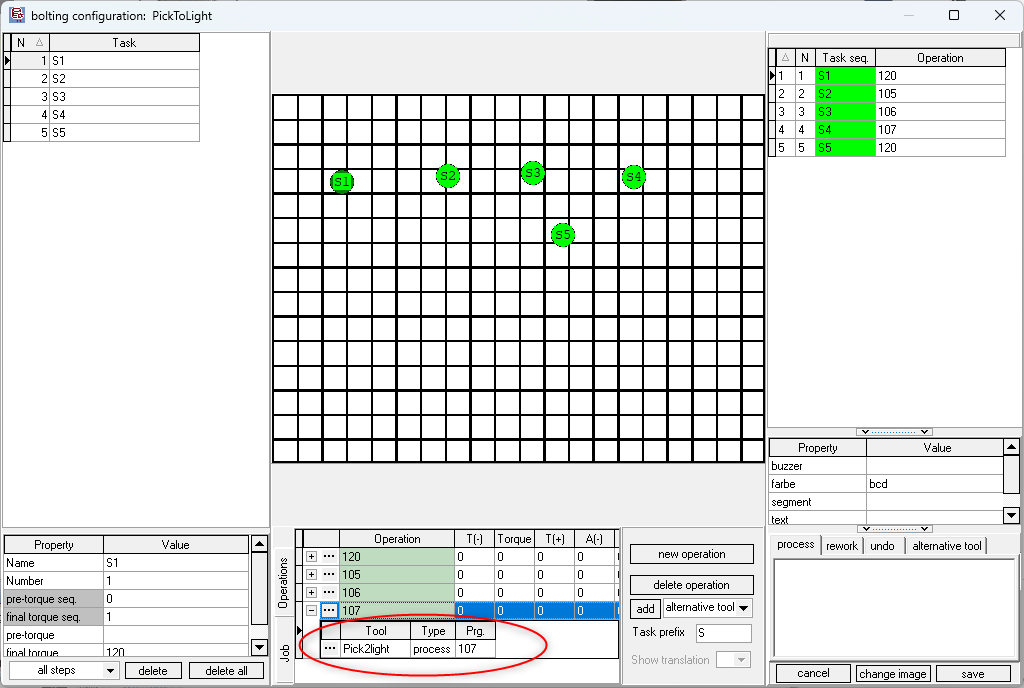
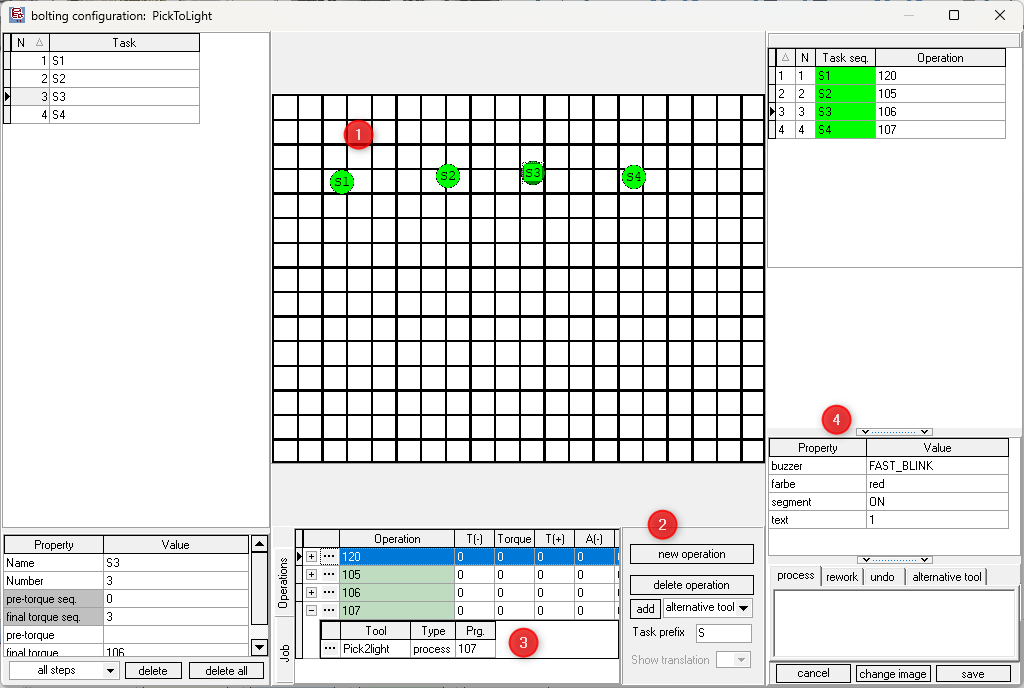
Modified documentation for pick2light and GUI-Input tools

diff --git a/docs/tools/misc/aioi-pick2light.md b/docs/tools/misc/aioi-pick2light.md
@@ -9,13 +9,13 @@ tags:
 
 # AIOI Pick2Light tool
 
-The AIOI Pick2Light tools are interactive communication devices associated with each shelf location, guiding the operator by clearly indicating the exact position and, if necessary, the quantity of units to be picked or placed. The hardware comes in multiple models, each featuring colored LEDs integrated into a single confirmation button. This design allows for various operational configurations, offering more flexible ways to manage tasks. For example, it enables multiple workers to operate simultaneously in the same area, with each worker assigned a unique color. It also supports preparing multiple orders at once by a single operator, with different colors assigned to each order. (links? to aioi H/W setup )
+The AIOI Pick2Light system is an interactive tool that helps operators by clearly indicating the specific shelf location and, when needed, the quantity of items to be picked or placed. Available in several models, each unit features colored LEDs and a single confirmation button, offering versatile configurations to efficiently manage tasks. <!--links? to aioi H/W setup-->
 
 ## Installation and configuration
 
 ### OGS project configuration
 
-OGS has an interface to add additional tool drivers by adding Windows-DLLs to the `[TOOL_DLL]` section in `station.ini`. To simplify the creation of custom tool drivers, OGS offers the heLuaTool.dll, which enables the development of tool drivers using pure LUA. With this functionality, the AIOI Pick2Light tool is seamlessly integrated into OGS, see [Lua custom tools](../../v3/lua/customtools.md).
+OGS has an interface to add additional tool drivers by adding Windows-DLLs to the `[TOOL_DLL]` section in `station.ini`. To simplify the creation of custom tool drivers, OGS offers the heLuaTool.dll, which enables the development of tool drivers using pure LUA. With this functionality, the AIOI Pick2Light tool is seamlessly integrated into OGS, see [Lua custom tools](../../v3/lua/customtools.md) for more info.
 
 ### Tool registration and configuration
 
@@ -39,16 +39,16 @@ The typical parameters are:
 
 - `DRIVER`: The name of the windows dll that implements tool drivers.
 - `TYPE`: The name of the tool driver specified in your custom LUA tool driver.
-- `IPADDR`: Specify the IP address used for communication with the controller.
-- `IPPORT`: Specify the port number used for communication with the controller.
+- `IPADDR`: Specify the IP address used for communication with the controller. 
+- `IPPORT`: Specify the port number used for communication with the controller (the default port number is 5003).
 
 
 ## Editor configuration
 
 ### Configuring the tool
 
-In the Tools section of the Editor, add a new tool named Pick2light and assign it to the appropriate channel (ensure the channel number matches the one specified in the `station.ini` file). Provide a name for the tool and, under the Task & Action properties section, define the following properties:
-- `text`: The text to be displayed on the display
+In the Tools section of the Editor, create a new tool with a name of your choice (e.g., Pick2light) and assign it to the appropriate channel (ensure the channel number matches the one specified in the `station.ini` file).Next, under the Task & Action properties section, define the following properties:
+- `text`: The text to be shown on the tool's display
 - `farbe`: The color of the confirm button
 - `buzzer`: The buzzer sound setting, which can be set to 'OFF', 'ON', 'BLINK', or 'FAST_BLINK'
 - `segment`: The property of the display segment
@@ -63,16 +63,47 @@ Assign a tool number to each property, as shown in the reference image below. Yo
 
 To set up a job and task with the appropriate operations and tools, follow the steps below:
 
-1. In the Jobs catalog, create a new job and then add a new task. In the operation section below, add an operation by selecting "new operation."
-2. To assign an existing operation along with its tool, click the three dots next to the operation and select from the window that opens.
-3. To add a new operation, provide a name for the operation and assign a tool by clicking the three dots next to the tool, which will open the tools window. From there, select the "Pick2Light" tool. It is **crucial** to set the program (Prg) value to the Pick2Light tool address (also known as the bin number). 
-4. Afterward, assign the newly created operation to the task, as shown in the image below. 
-5. Finally, ensure that the correct values are assigned to the properties for each task. The values for each of the properties are discussed in the next section.
+1. In the Jobs catalog of the Editor create a new job and then add a new task. 
+2. In the operation section below, add an operation by selecting "new operation."
+    -  To assign an existing operation along with its tool, click the three dots next to the operation and select from the window that opens.
+    -  To add a new operation, provide a name for the operation and assign a tool by clicking the three dots next to the tool, which will open the tools window. From there, select the "Pick2Light" tool. 
+3. It is **crucial** to set the program (Prg) value to the Pick2Light tool address (also known as the bin number, which is explained in detail in the following section). Afterward, assign the newly created operation to the task, as shown in the image below. 
+4. Finally, ensure that the correct values are assigned to the properties for each task. Default values for each property are already specified in case no input is provided. The values for each of the properties are discussed in the next section.
 
 
 
 
 ![prg_specify](resources/prg_specify.png)
 
+In the Family tab of the Editor, create a new family. In the section below, configure the `Model` and `Barcode mask`, then link the newly created job to the family.
 
-AIOI color, buzzer, segment properties
+
+
+
+## Configuring the AIOI Pick2light Tool and Its Features
+
+### Setting Up the Tool Using Flowlight
+Configure the tool by sending the address setup command through the Flowlight application.
+
+
+1. On the Flowlight application, go to Tools and select **Light Module Address Setup**.
+![flow_light1](resources/Flowlight-1.png)
+
+2. Select and connect the controller
+
+    ![flow_light2](resources/Flowlight-2.png)
+
+3. Make adjustments to the setup values and press the Start button
+
+![flow_light3](resources/Flowlight-3.png)
+
+4. After pressing the Start button for the duration you have configured, the address setup command will be sent to the first address. Keep the CONFIRM button on the first light module pressed during this time.  
+5. When the first light module emits a “peep” sound and its CONFIRM button flashes briefly, it indicates that the address has been successfully set. Following the specified address setup intervals, press the CONFIRM button on the next light module.  
+6. Once the last light module address has been configured, a command will be sent to illuminate all the light modules. You can verify the address by pressing the CONFIRM button on each light module. This address, known as the **bin address**, is crucial for communication with the tool. It should be added as the program number when configuring the tool in the Editor for OGS to communicate effectively with the tool.
+
+### Tool Properties
+The AIOI pick2light systems provide a confirmation button with LED functionality, featuring high-intensity multicolor LEDs (up to 7 colors). These LEDs guide operators to the correct position and serve as a confirmation indicator. They can be set to either a fixed or blinking mode.
+
+Buzzer features include various sound options such as no sound, high-pitched, beeping, and fast beeping. Segment options include- off, on, flash, and fast flash settings.
+
+

diff --git a/docs/tools/misc/gui-input.md b/docs/tools/misc/gui-input.md
@@ -7,9 +7,12 @@ tags:
     - guiInput
 ---
 
-# GUI Input
+# GUI Input Tool
  
-The GUI Input tool is a custom interface that allows the operator to input values for a set of predefined parameters. It validates the entered values against their allowed ranges, and once the operator clicks the "Accept" button, the result is displayed, indicating whether the values are within the valid range or not. The GUI can accommodate up to 6 parameters for value entry.
+The GUI Input tool is a custom interface that allows the operator to input values for a set of predefined parameters. It validates the entered values against their allowed ranges, and once the operator clicks the "Accept" button, the result is displayed, indicating whether the values are within the valid range or not. The GUI can accommodate up to 6 parameters for value entry. See the reference image below:
+<!--should I add how result is saved in OGS?-->
+
+![properties](resources/gui_input_UI.png)
 
 ## Installation and configuration
 
@@ -20,6 +23,7 @@ OGS has an interface to add additional tool drivers by adding Windows-DLLs to th
 ### Tool registration and configuration
 
 According to the instructions provided in the [Lua custom tools](../../v3/lua/customtools.md), a standard configuration for the `[LuaTool_GUI_Input]` section in `station.ini` is as follows:
+
 
 ``` ini
 [TOOL_DLL]
@@ -43,20 +47,30 @@ The typical parameters are:
 
 - `DRIVER`: The name of the windows dll that implements tool drivers.
 - `TYPE`: The name of the tool driver specified in your custom LUA tool driver.
-- `Param`: When creating parameters, ensure that only **6 parameters** are defined. For each parameter, specify the **type** (e.g., float or int), **min** and **max** values (if applicable), and a **default** value. These defined properties will be displayed on the GUI for the user to input their values accordingly. The **type** will determine the format of the value (e.g., numeric or integer), while the **min** and **max** values define the valid range for the input. The **default** value will be pre-filled if no user input is provided.
-
-
-
-## Editor configuration
-
-### Configuring the tool
+- `Param1 .. Param6`: When creating GUI parameters, ensure that **only upto 6 parameters** are defined, though fewer than six is acceptable. For each parameter, specify the **name**, **type** (e.g., float or int), **min** and **max** values (if applicable), and a **default** value. These defined properties will be displayed on the GUI for the user to input their values accordingly. The **type** will determine the format of the value (e.g., numeric or integer), while the **min** and **max** values define the valid range for the input. The **default** value will be pre-filled if no user input is provided.
 
 
 
 
+## Editor Configuration
 
-### Creating a job
+- **Create a New Tool**: In the Tools section of the Editor, create a new tool with a name of your choice and assign it to the appropriate channel (ensure the channel number matches the one specified in the `station.ini` file).
 
+- **Create a New Job**: To set up a job and task with the correct operations and tools, follow the steps below:
+
+  1. In the Jobs catalog, create a new job and add a new task.
+  2. In the operation section, add an operation by selecting "new operation".
+     - To assign an existing operation with its tool, click the three dots next to the operation and select from the window that appears.
+     - To create a new operation, provide a name for the operation and assign a tool by clicking the three dots next to the tool, which will open the tools window. From there, select the tool created in the previous step. Afterward, assign the newly created operation to the task, as shown in the image below.
+
+- **Create a New Family**: In the Family tab of the Editor, create a new familyFor the family, setup `Model` and `Barcode mask` in the section below, then assign the newly created job to the family.
+
+
+![gui_input_job](resources/gui_input_job.png)
+
+
+
+<!--Result Display Section?-->
 
 
 
